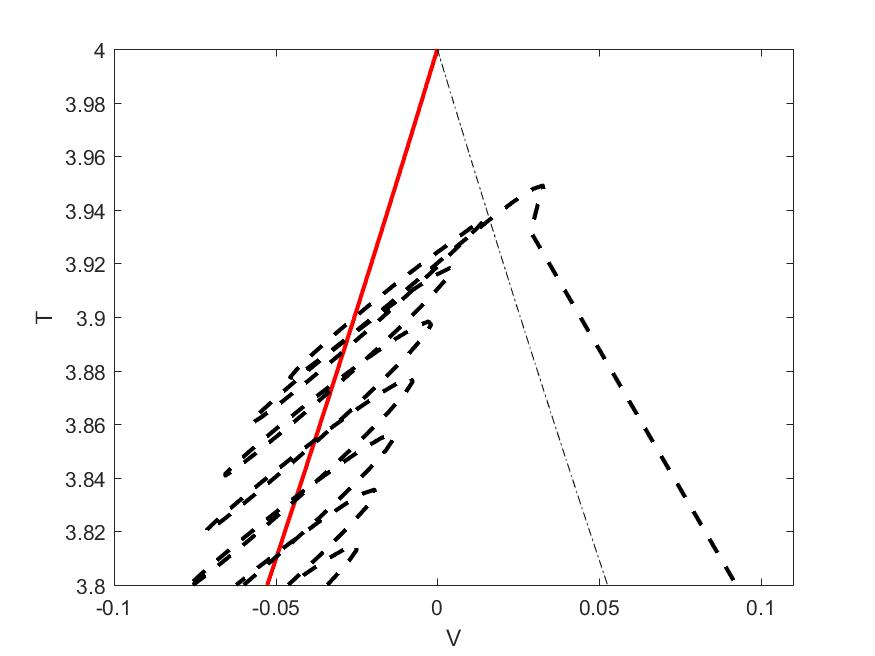
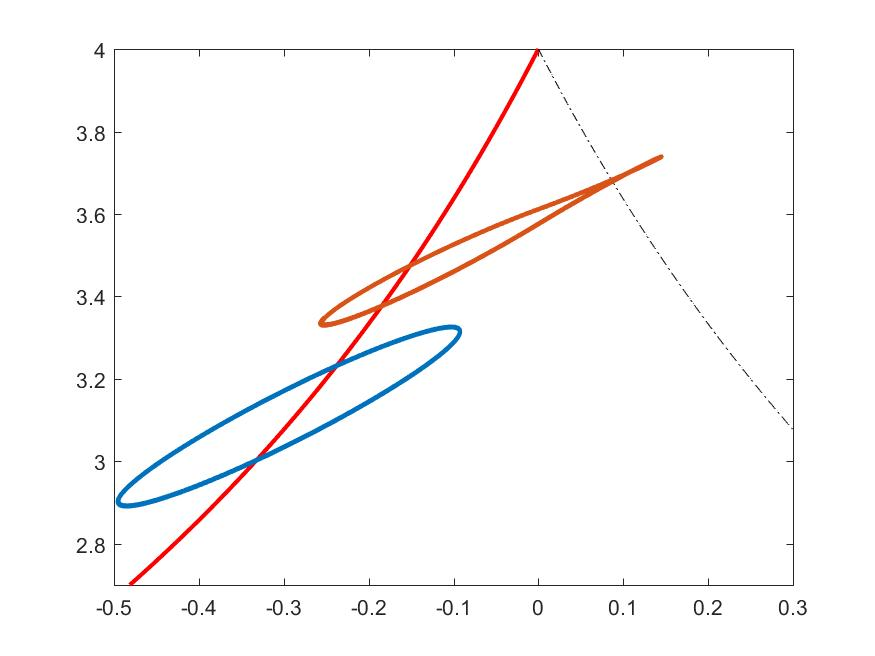
Updated twoD osc graphs

diff --git a/Complete/TwoD_matlab/Osc/twoD_osc_fix.m b/Complete/TwoD_matlab/Osc/twoD_osc_fix.m
@@ -1,0 +1,163 @@
+% Load function folder
+addpath('C:\Users\codyg\Desktop\MSc_Thesis\Cody\trunk\Complete\Functions')
+cd('C:\Users\codyg\Desktop\MSc_Thesis\Cody\trunk\Complete\Graphs\TwoD_Osc')
+
+% Zoom Yes == 1, No == 0
+
+zoom=1;
+
+eta1 = 4; eta3 = 3/8;
+nsbif = eta1*eta3;
+A = 2; B = 2; Omega = 10;
+h = min(.01, 2*pi/(10*Omega));
+
+caseIboundary = abs(A)*(eta1*(1-eta3)+eta3)/Omega+eta1*eta3;
+mosc = 2*eta1*(1-eta3)/(pi*abs(A))-pi*abs(A)*eta3^2/(4*eta1*(1-eta3));
+muosc = mosc/Omega+nsbif;
+
+% Locate the smooth bifurcation
+derivative = [-2 -(eta3+4) -2*(eta3+1) eta1-eta3*(eta1+1)];
+r = roots(derivative);
+Vsmooth = r(imag(r)==0);
+smootheta2 = Vcurve(Vsmooth,eta1,eta3);
+
+% Time series
+close(figure(1))
+close(figure(2))
+eta2vec = [caseIboundary+2/Omega (caseIboundary+muosc)/2 muosc-1/Omega];
+N = length(eta2vec);
+labs={};
+c={};
+for i = 1:N
+    vDEosc = @(t,V,T)((eta1-eta2vec(i))-V*abs(V)-T+eta3*(T-V)+A*sin(Omega*t));
+    tDEosc = @(t,V,T)(eta1-T*(1+abs(V))+B*sin(Omega*t));
+    
+    vInit = -eta2vec(i)/eta1+eta3;
+    tInit = eta1/(1-vInit);
+    
+    [t,Vosc,Tosc] = RK2sys(vDEosc,tDEosc,vInit,tInit,0,20,h);
+    figure(1)
+    hold on
+    P1 = plot(t,Vosc);
+    set(gca,'Xdir','reverse')
+    c{i} = get(P1,'Color');
+    if i == 1
+        Vbefore = Vosc(500:end);
+        labs{i}='\eta_2 in Case I';
+    elseif i == 2
+        Vat = Vosc(500:end);
+        labs{i}='\eta_2 in Case II';
+    elseif i == 3
+        Vafter = Vosc(500:end);
+        labs{i}='\eta_2 after bifurcation';
+    end
+    xlabel('t')
+    ylabel('V')
+    legend(labs,'Location','west')
+    ylim([-.6 1.3])
+    print('-f1','osc_Vtimeseries','-djpeg')
+    
+    figure(2)
+    hold on
+    P2 = plot(t,Tosc);
+    set(gca,'Xdir','reverse')
+    c{i} = get(P2,'Color');
+     if i == 1
+        Tbefore = Tosc(500:end);
+        labs{i}='\eta_2 in Case I';
+    elseif i == 2
+        Tat = Tosc(500:end);
+        labs{i}='\eta_2 in Case II';
+    elseif i == 3
+        Tafter = Tosc(500:end);
+        labs{i}='\eta_2 after bifurcation';
+    end
+    xlabel('t')
+    ylabel('T')
+    legend(labs,'Location','northwest')
+    print('-f2','osc_Ttimeseries','-djpeg')
+end
+
+yvec = linspace(-1,2,300);
+caseIvec = caseIboundary* ones(1,300);
+bifpredvec = muosc* ones(1,300);
+
+% Phase plot time series
+close(figure(3))
+figure(3)
+z = @(eta2,V)(eta1-eta2-V*abs(V)-eta1/(1+abs(V))+eta3*(eta1/(1+abs(V))-V));
+h1 = fimplicit(z,[nsbif-1,nsbif+1,-.5,1.5]);
+set(h1,'linestyle','-.','color','k')
+hold on
+h2 = fimplicit(z,[nsbif-1,nsbif+1,-.5,0]);
+set(h2,'color','r','linewidth',2)
+hold on
+h3 = fimplicit(z,[nsbif-1,nsbif+1,Vsmooth,1.5]);
+set(h3,'color','r','linewidth',2)
+
+% Remove vectorized warning, not important for speed
+[~,war] = lastwarn();
+warning('off',war);
+
+xlabel('\eta_2')
+ylabel('V')
+title('')
+
+% x=0 axis
+plot(linspace(nsbif-1,nsbif+1,100),zeros(1,100),'k')
+
+% Parameter ranges
+plot(bifpredvec, yvec, 'b--')
+plot(caseIvec, yvec, 'g--')
+
+% Phase plane time series
+plot(eta2vec(1)*ones(1,length(Vbefore)),Vbefore,'color',c{1},'linewidth',2)
+plot(eta2vec(2)*ones(1,length(Vat)),Vat,'color',c{2},'linewidth',2)
+plot(eta2vec(3)*ones(1,length(Vafter)),Vafter,'color',c{3},'linewidth',2)
+xlim([nsbif-.5 nsbif+1])
+ylim([-.6 1.2])
+print('-f3','osc_bif_diagram','-djpeg')
+
+if zoom==1
+    xlim([nsbif 2.3])
+    ylim([-.5 .3])
+    print('-f1','osc_bif_diagram_zoom','-djpeg');
+end
+
+% T phase plot
+m = 300;
+Vlow = linspace(-1,0,m);
+Vmid = linspace(0,Vsmooth,m);
+Vup = linspace(Vsmooth,1.5,m);
+
+
+func=@(x)(eta1./(1+abs(x)));
+
+Tlow = func(Vlow);
+Tmid = func(Vmid);
+Tup = func(Vup);
+
+close(figure(4))
+figure(4)
+plot(Vlow,Tlow,'r','linewidth',2)
+hold on
+plot(Vmid,Tmid, 'k-.')
+plot(Vup,Tup,'r','linewidth',2)
+plot(Vbefore,Tbefore,'color',c{1},'linewidth',2)
+plot(Vat,Tat,'color',c{2},'linewidth',2)
+plot(Vafter,Tafter,'color',c{3},'linewidth',2)
+
+print('-f4','osc_bif_Tplot','-djpeg');
+
+if zoom == 1
+    xlim([-.5 .3])
+    ylim([2.7 eta1])
+    print('-f4','osc_bif_Tplot_zoom','-djpeg');
+end
+
+
+% Calculates the V curve
+function eta2 = Vcurve(V,eta1,eta3)
+    T0 = eta1/(1+abs(V));
+    eta2 = eta1+eta3*(T0-V)-T0-V*abs(V);
+end

diff --git a/Complete/TwoD_matlab/Osc/twoD_osc.m b/Complete/TwoD_matlab/Osc/twoD_osc.m
@@ -124,7 +124,7 @@ Vmid = linspace(0,Vsmooth,m);
 Vup = linspace(Vsmooth,1.5,m);
 
 
-func=@(V)(eta1/(1+abs(V)));
+func=@(V)(eta1./(1+abs(V)));
 
 Tlow = func(Vlow);
 Tmid = func(Vmid);
